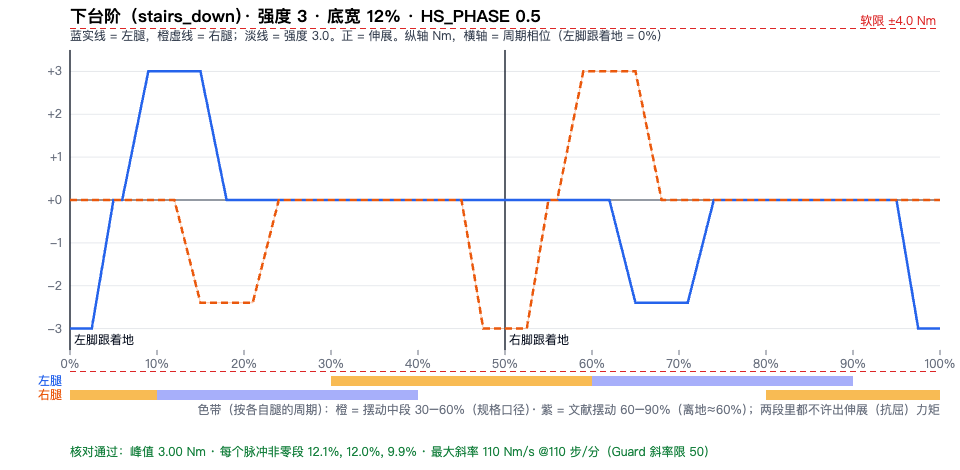
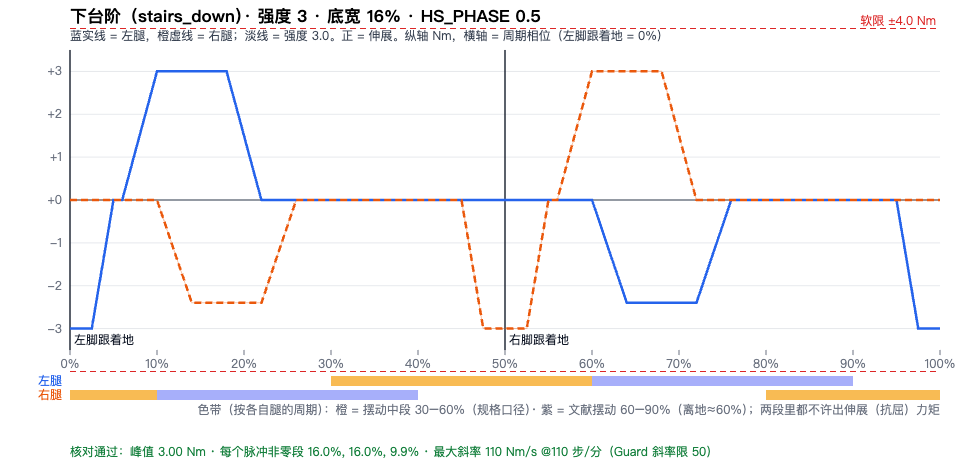
S 线第 7 轮：启动参数口径、底宽 16%、经验卡显示模型名、README / 架构 v3 软限与台阶、重拍泰山台阶截图
- 软限 4 / 强度 3.0 / 底宽 16 的出处改成展位启动参数；删掉「换人后调回 3.0」
- 脉冲表底宽改 16%（峰值不变），pulse_plot 按 CAP 4 / 强度 3.0 / 底宽 16 重跑核对并重出两张脉冲图
- 经验卡：显示模型名（现在 MiniMax-M3）/ rule，source 是内部键
- README 安全表与地形脉冲行、架构 v3 软限行与台阶两行（总指挥授权，只动这两项）
- 重拍（--sim 实走泰山、fx=off、npc=0）：ui_play_force.png、游戏-泰山台阶-v2.jpg、游戏-泰山台阶-峰哥v2.jpg；海报主图与项目介绍截图表换新
- 打印复查：海报两版各 1 页、一页纸两版各 2 页

diff --git a/docs/提交/poster.html b/docs/提交/poster.html
@@ -116,17 +116,17 @@ h1.alt{font-size:51mm;letter-spacing:1mm}
   </div>
 
   <div class="hero">
-    <img class="shot fg" src="截图/游戏-东京天桥-峰哥v2.jpg" alt="赛博东京·夜行：天桥上的峰哥化身（正面镜头），身后半透明的是上一位登山者">
-    <img class="shot alt" src="截图/游戏-东京天桥-v2.jpg" alt="赛博东京·夜行：天桥台阶，化身与半透明影子并排">
+    <img class="shot fg" src="截图/游戏-泰山台阶-峰哥v2.jpg" alt="泰山十八盘：上台阶的峰哥化身（正面镜头），身后半透明的是上一位，左下是腿上的力">
+    <img class="shot alt" src="截图/游戏-泰山台阶-v2.jpg" alt="泰山十八盘：上台阶，化身与半透明影子并排，左下是腿上的力">
     <div class="fade"></div>
     <div class="feng fg">
       <div class="head"><img src="截图/fengge_v2_front.png" alt="峰哥化身 v2 头部"></div>
       <div class="bubble"><div class="q">这是个好事儿啊，<br>腿酸说明你真爬了。</div><div class="who">峰哥解说 · 内置语录（口吻模仿）</div></div>
     </div>
-    <div class="pulse"><img src="截图/脉冲-上台阶-阻力.png" alt="上台阶一周期的髋力矩：支撑期阻力，摆动期为 0，梯形"><p>上台阶一步里的髋力矩：踩下去往回拉，抬腿时一点不压（梯形脉冲，强度 3.0 峰值 3.6 Nm，软限 4）</p></div>
+    <div class="pulse"><img src="截图/脉冲-上台阶-阻力.png" alt="上台阶一周期的髋力矩：支撑期阻力，摆动期为 0，梯形"><p>上台阶一步里的髋力矩：踩下去往回拉，抬腿时一点不压（梯形脉冲，强度 3.0 峰值 3.6 Nm，底宽 16%，软限 4）</p></div>
   </div>
-  <div class="cap fg">游戏画面：赛博东京·夜行 · 天桥，正面镜头看峰哥化身（v2 模型），身后半透明的是上一位登山者（模拟外骨骼离线预览，9/23）</div>
-  <div class="cap alt">游戏画面：赛博东京·夜行 · 天桥台阶，半透明的是上一位登山者（模拟外骨骼离线预览，9/23）</div>
+  <div class="cap fg">游戏画面：泰山十八盘 · 上台阶，正面镜头看峰哥化身；左下是此刻发给两条腿的阻力脉冲（模拟外骨骼实走，强度 3.0，9/23）</div>
+  <div class="cap alt">游戏画面：泰山十八盘 · 上台阶，半透明的是上一位；左下是此刻发给两条腿的阻力脉冲（模拟外骨骼实走，强度 3.0，9/23）</div>
 
   <div class="points">
     <div class="pt" style="--c:var(--cyan)"><h3>穿着就能走</h3><p>不靠平台、不靠地板，一台量产髋外骨骼</p></div>

diff --git a/docs/提交/onepager.html b/docs/提交/onepager.html
@@ -230,7 +230,7 @@ tr.real th{color:var(--green)} tr.rep th{color:var(--cyan)} tr.sim th{color:#3d4
     <tr class="rep"><th>回放（真机录制）</th><td>穿戴坐站的假步态周期 13 → 0；走动段步子接住率 0.25 → 0.44（游戏里会一顿一顿）；红灯停步到放行中位 2.2 s；12 段录制全栈回放 0 次断使能</td></tr>
     <tr class="sim"><th>模拟 / 单测</th><td>5 种脉冲形状核对全过、27 组参数边界 0 组不过；11 种故障注入全过；蜂群：安全员裁剪 / 否决 / 急停全否，恶意路线草稿被裁成能走的山，断网兜底全通（不打真 Claude）；游戏 1080p 50–58 fps（开发机）</td></tr>
     <tr class="todo"><th>待 9/24 上午实测</th><td>力矩方向（「正 = 髋伸展」目前是数据推断）；其余手感（上坡、下台阶落阶冲击、跑酷跳 / 滑铲）；脚跟着地在相位的哪里；原地踏步稳不稳；蒙眼二选一（≥9/10 才说「能分辨坡度」）；陌生人穿脱时间；展位 MacBook 帧率；Claude 实连（MiniMax-M3 已测：教练 23/23、造山 p50 7.0 s）</td></tr>
-    <tr><th>哪些是大模型</th><td>教练、地形导演和<span class="fg">峰哥</span><span class="alt">解说员</span>的解说词由大模型写（Claude；没 key 时 MiniMax-M3，现在就是它）；断网时换成规则表、模板、内置语录，界面标 <b>claude / rule / canned</b>。记忆员、安全员是代码</td></tr>
+    <tr><th>哪些是大模型</th><td>教练、地形导演和<span class="fg">峰哥</span><span class="alt">解说员</span>的解说词由大模型写（Claude；没 key 时 MiniMax-M3，现在就是它）；断网时换成规则表、模板、内置语录，经验卡上显示模型名 / <b>rule</b>，解说标 <b>canned</b>。记忆员、安全员是代码</td></tr>
     <tr><th>捷风</th><td>追你的是致敬《无畏契约》的捷风：模型是粉丝手办（Frojj123，Thingiverse，CC BY 4.0），角色 IP 属于 Riot、没有授权，只在比赛展示；声音由配音演员本人同意、现场录制</td></tr>
     <tr class="fg"><th>峰哥素材</th><td>照片（化身贴脸 + 大屏头像）来自 talk-to-fengge-live（MIT），口吻节选自 feng-ge-skill（MIT）；<b>声音</b>是 MiniMax 复刻的音色，参考音频是 talk-to-fengge（Apache-2.0）里约 45 秒的公开直播片段。兜底语录已预生成，断网也有峰哥音色。合成音频只存本机、不公开发布。<b>峰哥本人 9/23 当面同意</b>本次展示使用</td></tr>
   </table>

diff --git a/docs/指挥板.md b/docs/指挥板.md
@@ -13,7 +13,7 @@
 | **H 峰哥化身** | `static/game/fengge.js`、`static/game/fengge_hud.js`（新）、`static/fengge.html`、`static/models/fengge_*`；`engine.js` 只加 import + 调用（第 1 轮 `await dressFengge(av)`、第 2 轮 `initFenggeHud()`，共 4 行） | ① 修 `/fengge` 预览空白 → 脸朝向 / 比例 / 夜景可读性截图验收 → 接进游戏；② 画中画头像 + 解说气泡 | ✅ **第 2 轮 画中画**（`fengge_hud.js`）：左侧世界名面板下方一个圆形峰哥头像（2D 照片），1 s 轮询 `/state.fengge`，出了新的一句弹气泡停 6 s（打开页面前那句不弹，判断方式和 voice.js 一样：`t|event|text` 变了才算），红灯红框、登顶金框，登顶期间（`body.summit`）头像 6→9.5rem；只管画面不碰声音；`?fengge=0` 头像也不出（验过）。气泡宽 ≤ min(20rem, 半屏−16rem)，小窗口也碰不到正中的红灯面板。**真链路联调**（`--sim` 8813 + 内置浏览器实时 /game，驱动 /sim 走东京）：进红灯 → `/state.fengge` 出兜底语录（source=canned，大脑没开）→ 气泡 ≤1 s 弹出、6 s 后收；走完一圈登顶那句同样弹出，东京第 2 圈第 4 步就是红灯，登顶那句很快被红灯那句顶掉。**截图**（离线预览 `&say=…&sayev=…` 摆的状态，1280×720 东京夜景）：`docs/提交/截图/fengge_hud_walk.png`（普通行走，只有头像）、`fengge_hud_red.png`（红灯 + 红框气泡，离红灯面板约 200 px）、`fengge_hud_summit.png`（登顶，头像放大 + 金框气泡，登顶卡在底部不重叠）。**没做到**：hud.js 的影子标签避让列表（`AVOID`）没有 `fg`，影子跑到画面左上时标签可能压到气泡（hud.js 属于 M，要加就在 AVOID 里加 `'fg'`）；接上 Claude 后解说要等大脑返回（最长 15 s 超时），可能登顶卡收了才出来。<br>✅ **第 1 轮 3D 峰哥头** 已接进游戏（`?fengge=0` 关）。**空白原因**：页面本身不报错（内置浏览器正常画），是 `shot.sh` 的 `--virtual-time-budget` 卡在 `loadAvatar()` 的 glb 贴图解码上（加 stage 标记实测停在 loadAvatar；预算加到 30 s 照样空白），与等待时长无关；改用 DevTools 按真实时间等 `<body data-ready>` 再截（预览页加了 `data-ready` + `#errlog`，`scripts/dom.sh` 可直接查）。**顺手修的真问题**：原来按 z>1.30 量头，漏掉下半个头，脸片比原头盔小，被盖住只露出鼻子——改按头骨权重量、原头盔顶点塌掉、脸片按照片比例铺（不拉伸不镜像）。**截图** `docs/提交/截图/fengge_front.png`、`fengge_left30.png`、`fengge_right30.png`、`fengge_walk.png`、`fengge_night_front.png`（东京夜景正面）、`fengge_night_game.png`（东京实际跟拍视角，只见帽子+后脑）；5 个主题预览均无报错。**开销**（东京 pos 18 同视角，1024×768）：+3 次绘制（66→69）、+4.4k 三角形（73.5k→77.8k），同步渲染 60 帧均值 43.9→44.1 ms（在误差内）；绝对值偏高是面板隐藏 + 机器负载 18 下强制 readPixels 同步测的，rAF FPS 没测成。**没做到**：跟拍镜头在身后，游戏里只有登顶环绕才看得到脸而且脸很小；侧面/背面是纯色 |
 | **V 峰哥语音** | `brain/tts.py`（新）、`shellos/agent/voice.py`（新）、`static/voice.js`（新）；`server.py` 只加 `/voice/*` 路由 | 峰哥解说（`App.fengge.last`）→ 语音播放；调研声音克隆方案（参考 YeJe-cpu/talk-to-fengge、w466747380/talk-to-fengge-live 的参考音频与方案），离线兜底 | ✅ **峰哥音色上线了**（总指挥 main 9c94e22）：主工作区 MiniMax 复刻成功，11 句兜底语录全部用 MiniMax 预生成（24 kHz）；`run.sh` 一起起 tts（8791），隧道多转了 8791；`game.html` 已引入 voice.js；端到端验证过（造山 → 兜底解说 → `/voice/last.wav` 回 24 kHz MiniMax 音频）。实时合成一句 4.2 / 7.8 / 10.2 s，MiniMax 超时定为 15 s，ShellOS 等 25 s。MiniMax 失败或断网时：本地缓存 → `say` 女声 → 不出声。**复刻做了两次（V 一次、总指挥一次），约 19.8 元** |
 | **C Claude 实测 + 部署** | `brain/claude_brain.py`、`shellos/agent/brain.py`、`shellos/agent/interpret.py`、`shellos/worlds/gen.py`、`scripts/eval_*.py`（新）、`brain/run.sh`（新） | 拿到 key 后实测：教练 23 句准确率 / 造山 10 句质量 / 延迟；调 prompt；本机大脑 + SSH 反向隧道到 MacBook 一键脚本；deploy 到 MacBook 联调 | **backend=minimax 跑通（commit 见 git log）**：同一个官方 SDK 只换 base_url 到 `api.minimaxi.com/anthropic`（文档写 api.minimax.cn，两个都通；这台机器上 minimaxi.com 建连 0.8–1.2 s，minimax.cn 2–4.8 s）。结构化输出用强制工具调用。凭据顺序：Claude > brain/.env 的 MINIMAX_API_KEY > none，/health 带 `backend`。**教练**（MiniMax-M3，第 3 轮）：23 句参数 23/23、方向 23/23（规则表 23/23）；加试 7 句 7/7（规则表 3/7）；**p50 1.6 s、p95 2.8 s**、>12 s 0 次。M2.7-highspeed 思考关不掉：方向 22/23，p95 12.2 s，所以换成 M3。**造山**（M3，第 2 轮）：10/10 由模型生成，被安全员裁剪的 2/10（泰山 1 条；「500 步 + 5 红灯」那句 7 条，本来就是故意刁难），**p50 7.0 s、max 10.0 s**；截图在 C 线 scratchpad 的 `worlds-minimax.png`。**峰哥解说**（M3）0.9–2.2 s（M2.7-highspeed 要 7.8–11.8 s，ShellOS 的 15 s 超时会碰到）。**费用**：总共约 130 次 live，约 ¥0.6（教练单次约 ¥0.002、造山约 ¥0.009、峰哥约 ¥0.001；第 2/3 轮教练的 token 日志被重启覆盖了，按单次均值推算）。M3 偶尔不理 tool_choice，直接回文字（约 3%），先把文字当 JSON 解析，解析不了再问一次。主工作区 8790 的大脑和隧道我没动，重启交给总指挥。pytest 106 过，1 挂（同前，只在 worktree 里挂）。key 前的结论见下面留言。
-| **S 提交物 / 叙事** | `docs/提交/**`、README 的「项目介绍」段 | 改名峰哥亡命天涯；加蜂群（峰哥当年合伙的公司就叫「蜂群文化」）、一句话造山、峰哥解说；评委题库补：断网怎么办 / 安全员为何不用大模型 / 肖像与素材授权 | ✅ 第 6 轮（已 merge main 8215a79，未 push）：项目介绍 / 60 秒 / 4 分钟 / 题库 / 分镜 / 海报文案，另外 poster、onepager、README 开头段也跟上了。**手感**：上台阶 = 支撑期阻力（摆动期 0）、下台阶 = 落阶冲击 + 助力 + 摆动期帮迈腿，峰值按强度 3.0 / 软限 4 用 `terrain.pulse()` 算的（上坡 +3.0、下坡 −2.4、上台阶 −3.6、下台阶 −3.0 / +3.0 / −2.4、红灯 −1.5、lift −2.4 Nm）；`pulse_plot.py --strength 3.0`（CAP=4）重跑核对全过，新图 `截图/脉冲-上台阶-阻力.png`、`脉冲-下台阶-落阶冲击.png`，海报角图换掉了。**题库**加 D10 上楼为什么是阻力 / D11 落阶冲击会不会伤人 / D12 力波形是真的吗（答：是 Guard 发出的指令 `safety.sent`，不是测出来的力）；D9 改成「是捷风」：粉丝手办 Frojj123 CC BY 4.0、IP 属于 Riot 没授权、声音配音演员本人同意现场录（录音未到）。**4 分钟**主线不加跑酷 / 珠峰（时间不够），加「加演」表：珠峰走到北坳即可；跑酷真机没试通就只放模拟。60 秒正片不动结构，另列 15 s 花絮（珠峰 + 跑酷 + 捷风，角标「模拟」）。**大模型口径**：C 行说现在大脑跑的是 MiniMax-M3（Claude 等 key），材料里「教练 = Claude」都改成「大模型（Claude；没 key 时 MiniMax-M3）」，引 C 行实测（教练 23/23 p50 1.6 s、造山 p50 7.0 s、解说 0.9–2.2 s）。**要总指挥确认 / 处理**：① 软限 4 Nm、强度 3.0 仓库里没有出处（`--cap` 缺省 3、Terrain 缺省 1.5），材料写成「总指挥 9/23 转达」；**换人 / 演示复位会把强度重置回 1.5**（`demo_reset` 里 `Terrain()`），4 分钟脚本开场前清单加了「换完人调回 3.0」，建议改代码缺省或 run-mac.sh；② 经验卡 `source` MiniMax 也写 `claude`，建议改成 `llm` 或带模型名；③ README 正文安全表、架构 v3 还写软限 3 Nm / 旧台阶手感（不归 S）；④ `ui_play_force.png`、`游戏-东京天桥-v2.jpg` 是台阶反过来 / 新 HUD 之前拍的，要重拍。验收：printToPDF 海报两版各 1 页、一页纸两版各 2 页，逐页看过不截断 |
+| **S 提交物 / 叙事** | `docs/提交/**`、README 的「项目介绍」段 | 改名峰哥亡命天涯；加蜂群（峰哥当年合伙的公司就叫「蜂群文化」）、一句话造山、峰哥解说；评委题库补：断网怎么办 / 安全员为何不用大模型 / 肖像与素材授权 | ✅ 第 7 轮（已 merge main 0a20230，未 push）：① 软限 / 强度出处改成启动参数 `./run-mac.sh --ctl terrain --stepping --cap 4 --strength 3.0 --width 16 --http 8765`，4 分钟脚本「换完人调回 3.0」删掉；脉冲表底宽 12% → 16%（峰值不变，`terrain.pulse()` 重算），`pulse_plot`（CAP 4 / 强度 3.0 / 底宽 16）重跑核对全过，两张脉冲图重出。② 经验卡口径改成「显示模型名（现在是 MiniMax-M3）/ rule；source 字段是内部键」。③ 按授权改了 README 安全表 + 地形脉冲一行、架构 v3 §2.2 软限行 + §2.4 台阶两行（只动软限和台阶手感）。④ 重拍：自起 `--sim --cap 4 --strength 3.0 --width 16`（8851），泰山实走、`fx=off&npc=0&voice=0`，GPU 无头 Chrome，走到上台阶中段（pos 18–26）才截：`截图/ui_play_force.png`（覆盖 U 线旧图）、`游戏-泰山台阶-v2.jpg`、`游戏-泰山台阶-峰哥v2.jpg`（正面），波形都是 −3.0～−3.6 Nm 阻力脉冲、强度 3.0；海报主图换成这两张（峰哥版 / 备用版），项目介绍截图表换新。这台机器负载高，模拟设备主循环卡过 1 s 触发看门狗（按设计），截图脚本在后台自动重新上膛，只在模拟上这么做。截图用 npc=0：worktree 里没有捷风 STL（git 忽略），会显示原创造型，和展位不一致，干脆不拍。验收：海报两版各 1 页、一页纸两版各 2 页 |
 | **P 峰哥建模**（分支 claude/vibrant-ritchie-f949b4） | `static/game/fengge.js`、`static/models/fengge_face_hd.jpg`（新）、`docs/提交/素材授权.md`（新，和 J 线那份表头一样，合并时两边的行拼起来）、`docs/提交/截图/fengge_v2_*.png`；**avatar.js / engine.js / fengge.html 都没改** | 峰哥在正面镜头（V / `?cam=front`）近景下好看、一眼认得出：立体头型、针织帽、胡子头发、户外穿搭，外骨骼保留 | ✅ **做完，未 push**。**底模没换**，还是 CesiumMan，骨骼一根没加没改（名字 / 层级 / 绑定姿态原样）：A2 的动作是按 CesiumMan 骨骼名和逐根量过的转轴调的，换 Quaternius 这些都得重量，比赛前不值。把 A2 的 baf464a 临时叠上来跑过 `/game?…&cam=front`、`cam=side`：前倾、转头、围脖都正常（验完还原了，没带进分支）。**头**：放样几何（下巴到头顶 40 层截面 + 鼻梁 / 鼻翼 / 眼窝 / 眉弓 / 颧骨 / 嘴唇 / 下巴起伏），单位是参考照片的像素，照片（原图重新裁的 400×540，比旧的 272×384 清楚）按正前方正投影贴上去，五官自然对上；转开 60° 以上淡出成肤色 / 胡茬（带颗粒），后脑下半是发色。**帽子**：翻边 + 帽身，canvas 画的罗纹 V 字针脚（贴图 + 凹凸），帽檐线按照片（前额压到眉毛上方，两侧压过耳朵）。**头发**：帽子底下两侧 + 后脑两层发片，往下蓬、一绺一绺收尖（照片里就是齐下巴的头发撑在两边）。**围脖**：照片里的黑色抓绒围脖，挂脖子骨，转头不跟着转。**衣服**：包一层化身原来的分区材质：深灰速干衣 + 胸前 / 背后青色竖条纹 V 字拼色（照片里的户外打底衫，**没画任何 logo**）、袖子外侧青线、青色袖口、手套、深色长裤、登山鞋；身材沿法线鼓 0.4–1.2 cm。头放大到 0.25 m（身高的 1/5.8）、下巴压低 4 cm，不然正面镜头 2.4 m 外脸太小、脖子太长。**开销**（`scripts/dom.mjs`，1920×1080）：东京 pos 18 跟拍 73 次绘制 / 83.5k 三角形，`?fengge=0` 71 / 72.9k；泰山 pos 14 正面 49 / 243.9k vs 47 / 233.3k → **+2 次绘制、+10.6k 三角形**（v1 是 +3 / +4.4k），贴图多一张 400×540 + 两张 128² canvas；FPS 没在 M2 上测。**截图**（对比 `fengge_v2_compare.png`，左旧右新）：`fengge_v2_front / left30 / right30 / side / back.png`（`/fengge?zoom=1&walk=0&yaw=…`）、`fengge_v2_walk.png`（全身走路）、`fengge_v2_game_front.png`（`/game?preview=taishan_18pan&pos=14&cam=front`）、`fengge_v2_night_front.png`（东京 pos 18 正面，夜里脸看得清）。截图是无头 Chrome 按真实时间等 `data-ready` 再截的（swiftshader，内置浏览器面板没显示截不了）。**不理想**：照片是强光自拍，预览页里脸偏橙红；侧脸靠几何 + 肤色，耳朵被头发盖住没做；近看帽子针脚是规则的；东京的青色轮廓光把深色衣服整片染青，胸前拼色没白天明显 |
 | **J 疾风 NPC**（追兵，致敬版） | `static/game/npc.js`（新，行为）、`static/game/npc_jifeng.js`（新，造型 / 特效）；`engine.js` 只加 import + 1 行 init；`brain/tts.py` 加 `voice` 参数 + `--npc`；`shellos/agent/voice.py` 加 `NPC_VOICE` / `NPC_LINES`、缓存分目录；`server.py` 加 `/voice/npc.wav`（在 `/voice/*` 里）；`docs/提交/素材授权.md`（新） | 原创风系追兵：跟在玩家身后，步频决定远近，走慢了冲刺逼近（前倾 + 拖尾 + 风刃 + 喊一句），走快了被甩开，红灯她也站定；登顶结局「抓到你了」/「被你甩掉了」；只读 /state，不碰任何控制接口；`?npc=0` 关 | **第 5 轮 · 捷风 STL 雕像接进游戏 ✅**：Sketchfab 要登录，没用。改用 Thingiverse thing:4326703（作者 Frojj123，CC BY 4.0，粉丝原创的 3D 打印手办，不是游戏提取），总指挥放在主工作区的 `models/jett/jett.stl`（已被 git 忽略）。① `vendor/STLLoader.js`：本机只有 three **0.169** 官方包里的 STLLoader（0.160 不在 npm 缓存里；为了一个文件下整个包就没下）。它引用的 BufferAttribute / BufferGeometry / Color / FileLoader / Float32BufferAttribute / Loader / Vector3 / SRGBColorSpace 在 r160 里都有，实测能正常解析。② 加载：先 `mergeVertices`（STL 每个三角形各存 3 个点，不合并的话法线是平的），Z 朝上转成 Y 朝上，缩放到化身身高、脚底落地；这个 STL 本来就面朝 +X，所以 `yaw = 0`（4 个角度截图确认过：站姿、双臂下垂、没有底座），再 `computeVertexNormals` 让表面平滑。③ 按区域烘顶点色：靴 < 8%、腿 < 54%、外套 < 80%，80–93.5% 里朝前的算脸（肤色），其余算头发（白）；36–56% 高度、离中线 > 0.19 的算手套（深色）。材质是 Lambert 加自发光打底 30%、再加菲涅尔轮廓光，东京夜景里看得清。边界都在 `npc_jifeng.js` 的 `STATUE` 表里，对着截图调过。④ 动作「风系飘行」：离地 7 cm 浮着，走的时候上下起伏 ±5 cm，停下来慢慢起伏 ±3 cm，再加一点呼吸（身高缩放 ±1.2%）；前倾 0.03，走的时候 +0.1，冲刺再 +0.32 rad；冲刺时拖尾拉长（历史点间距 5 → 15 cm，最长约 3.6）+ 风刃；追上的那一下绕一个 1 s 的小弧（往前 0.35 步、往玩家那边切 0.3、身体跟着转）再站定；登顶被甩时弯腰。优先级：`scene.gltf` → `jett.stl` → 原创造型，都没有也不会报错。⑤ 性能：+7 次绘制、+4.4 万三角（东京预览 84 次 / 7.7 万 → 91 次 / 12.2 万）。无头 Chrome 走 GPU 的帧率噪声太大（同样没有 NPC，两次分别是 30.1 和 45.6），看不出雕像带来的差别，所以**没抽稀**；展位 M2 上要是掉帧，再加载时抽稀，或者远处换原创造型。⑥ 截图 `docs/提交/截图/npc_jett_stl_*.png`：preview（东京天桥冲刺）、front（正面看配色）、slow_1~6（`--sim` 泰山 80 步/分：gap 2.50「가자」→ 1.45「就这？빨리빨리」→ 0.70 追上、绕弧、「回头看看？我在这儿。」）、fast_1~3（130 步/分：2.76 → 4.69 甩开「哟，跑挺快嘛。」）、summit（登顶抓到「又是我先到，拜。」）。⑦ 素材授权.md：模型那一行改成 Thingiverse / Frojj123 / CC BY 4.0、粉丝原创手办、角色 IP 属于 Riot、不进 git；Sketchfab 那一行写「未采用（要登录）」。<br>**第 4 轮 · 方案 A：改名「捷风」+ Sketchfab 模型（没用上，要登录）**：球球知情后决定推翻「原创致敬版」（总指挥转达）。① `角色名` 缺省改成「捷风」，代码注释里的疾风也都改了；文件名、变量名没动。② `.gitignore` 加了 `shellos/ui/static/models/jett/`（用占位文件验过会被忽略）。deploy.sh 的 rsync 没有读 .gitignore，只排除了 .git / .venv / recordings 这些，所以模型会同步到展位机。③ `npc_jifeng.js` 用 GLTFLoader 读 `/models/jett/scene.gltf`：缩放到化身身高、脚底落地、正面转到 +X，贴图顺便当自发光打底，夜景里不会黑成一团。骨骼按名字匹配（thigh / upleg / leg、calf / knee、upperarm / arm、spine、head），左右按绑定姿态的位置分，摆动轴换算到每根骨骼自己的局部坐标，不依赖骨架的命名和轴向；T 字姿势的上臂自动放下 70°。自带的格斗站姿在「追上后站定」和「登顶抓到」时播放。模型 404、坏文件或者找不到腿骨，都**静默退回原创造型**，页面不报错（验过：没有模型时是原创造型，errlog 空）。**用 CesiumMan 冒充外部模型（`?npcmodel=/models/CesiumMan.glb`）把通用骨骼匹配走了一遍**：侧面看跑步姿势方向正确，前倾、大腿前摆、小腿后折、手臂反向摆。调试参数：`?npcmodel=` 换模型、`?npcmodel=0` 强制原创、`?npcyaw=` 修正朝向。⚠ 服务器 `_static` 给 .gltf / .png / .bin 回的是 application/octet-stream，按理不影响 GLTFLoader 解码，模型到了再实测。④ 素材授权.md 照实改了：模型来自 BojanV06（标 CC-BY，原始 IP 属于 Riot，很可能是游戏提取），球球知情后用于非商业黑客松展示，不进 git、不公开分发；角色名「捷风」属于 Riot 的 IP；原创造型只做退路。语音那一行来源不变，只把「外形和名字仍然原创」这句过期的说法改掉了。录音台词单里的同意示范句也改成了「角色『捷风』」。⑤ 「名字写错了」：等总指挥问清楚是角色名还是配音演员名（J 线的文件里没写配音演员的名字）。<br>**第 3 轮 · 配音演员本人现场录（等录音）**：本人当面同意（总指挥转达，记在留言里）。界限：只用本人**现场新录**的声音，不用游戏音频，不念游戏原台词；外形和名字仍然原创。① 录音台词单 `docs/提交/疾风录音台词单.md`（已发总指挥转球球）：原来的 6 句 + 新写的 5 句（被甩开 2「喂！我还没热身呢。」、追上 2「回头看看？我在这儿。」、红灯一起停「红灯。站好，我也不动。」、绿灯「绿灯了，가자！」、登顶嘲讽「山顶风大，站稳了。」），每句标了情绪，再加 30–60 s 自由说话；录音要求和同意视频的提醒都写在里面。② 接收：`brain/npc_intake.py` 读主工作区 `data/voice/npc_raw/`（`01~11.*` 一句一个文件，或者整段录、按 ≥0.9 s 的停顿切；`free.*` 是参考音频），用 ffmpeg 解码，按停顿切句、取最后一遍、去掉首尾静音，响度归一到 RMS −18 dBFS、峰值 ≤ −1 dBFS，输出 24 kHz 单声道 16 bit，放进 `data/voice/npc/real/`；每一段另存到 `npc_takes/`，自动挑的不满意可以用 `--use 09 <文件>` 换。`free.*` 转成 `data/voice/ref/jifeng_ref.m4a`。`/voice/npc.wav` **真人录音优先**，没有的再合成。已经有复刻 ID（`data/voice/npc_voice_id`）就用复刻音色，没有才用预设候选。③ 复刻：`tts.py --clone-npc`（9.9 元，**问过球球、确认后才跑**；`clone()` 改成可以传参考音频 / ID 文件 / 前缀，峰哥的行为不变）。游戏里 LINES 改成一个事件可以有好几句、随机挑一句，新增红灯 / 绿灯事件。用 `say` 生成的假录音走通了一遍：整段两遍切成 2 段、用最后一遍，输出 24 kHz / 1 ch / Int16，参考音频 16 s → m4a。test_voice 14 过（新增：真人优先不再合成；切句 + 归一化 + 输出格式）。素材授权.md 已写明「本人当面同意、现场新录、不是游戏素材」。<br>**第 2 轮 · 音色候选（等球球挑）**：第一版「清脆少女」球球说一点都不像。界限没变：不复刻捷风中文配音（真人）、不用游戏音频。从官方系统音色（国内站 get_voice 拉的 303 个）里挑了 4 个，都调了语速 / 音高 / 情绪：**A 嚣张小姐** `Arrogant_Miss`（1.2 / +1 / happy）、**B 韩语冷漠女孩** `Korean_ColdGirl`（1.25 / +1 / disgusted）、**C 韩语女冒险家** `Korean_BraveAdventurer`（1.25 / +2 / angry）、**D 俏皮萌妹** `qiaopi_mengmei`（1.3 / −1 / surprised）。台词重写成嘴欠刺客味，原创，夹通用韩语感叹词：가자！你先跑三秒。/ 就这？빨리빨리！/ 逮到了，慢死了。/ 哟，跑挺快嘛。/ 又是我先到，拜。/ 啧，算你走运。试听用其中 4 句，每个候选同样 4 句，一共 16 条全部成功，200 计费字符（约 $0.02）。文件在主工作区 `data/voice/npc_candidates/<候选名>/1~4.wav`（不进 git）。试听：`cd data/voice/npc_candidates && for d in */; do echo "== $d"; for f in "$d"*.wav; do afplay "$f"; done; sleep 1; done`。**选定后**：`voice.py` 里 `NPC_VOICE` 的缺省改成那个候选名，再跑 `brain/tts.py --npc`，只有 2 句要新合成，另外 4 句试听时已经进了缓存。在那之前，缺省还是清脆少女，新台词会现场合成。代码改动：`voice` 参数可以传完整的 voice_setting 字典（tts.py 只收 voice_id / speed / pitch / vol / emotion 这几个字段），带 NPC 音色时 `language_boost=auto`；`tts.py --npc-candidates`；新增测试 1 条（字段透传、auto、参数不同缓存分开），test_voice 13 过。<br>✅ 第 1 轮：分支 `claude/recursing-gould-f7e62a`（未 push、未合 main）。**造型**：复用 CesiumMan 换装（深蓝腿、蓝外套、白头）+ 往后吹的白发（6 个锥，合成一个网格）+ 白色高领，冲刺时 3 条加色拖尾 + 两道绕腰的月牙风刃，「抓到」时脚下一圈风环。没用 Quaternius：多一个 glb，骨骼名不一样，pose 接不上。角色名是 `npc_jifeng.js` 顶上的 `角色名` 常量（缺省「疾风」，也可以临时 `?npcname=`）。**行为**（`npc.js` 顶上的 `NPC` 表）：落后 gap 步，起始 2.5；走的时候 gap 每秒变化（步频 − 100）/ 40 步；站着不走（不是红灯）每秒贴近 0.4 步；**红灯 gap 冻住**、不冲刺、不喊；gap ≤ 0.7 算追上，≥ 4.5 算甩开（她藏到镜头后，左下角留「疾风 ↓ 落后 N 步」）；登顶时 gap < 3 →「抓到你了」，她冲到玩家左后侧 + 风环，否则「被你甩掉了」，停在原地弯腰喘气；登顶卡收起后 gap 回到 2.5。她走左侧路沿（横向 +0.85），不和右边的影子叠在一起。距离按真实时间积分，掉帧也不会追得慢。**声音**：MiniMax 系统预设音色 `Chinese (Mandarin)_Crisp_Girl`（官方系统音色列表里的，不是复刻，不花 9.9），台词原创 6 句：风起了 / 别停 / 追上你了 / 等等我 / 抓到你了 / 被你甩掉了；`/voice/npc.wav?t=` 只念这 6 句白名单，别的回 204；缓存 `data/voice/npc/`，和峰哥的分开。在主工作区 brain 目录用 `brain/.env` 的 key 真跑了一次 `tts.py --npc`：6 句全部成功，42 个计费字符，每句 1.0–1.3 s，wav 已经放进主工作区 `data/voice/npc/`（deploy 时跟着 data/voice 一起同步）。?voice=0 静音，预览不出声。**验收**：`pytest` 108 过 1 挂（worktree 里没有录制文件的那条 stress，和以前一样；新增 2 条：白名单 + 分目录缓存、预设音色不需要复刻）。截图（1080p，无头 Chrome 走 Metal GPU，swiftshader 一帧要 40–90 s，没法连拍）在 `docs/提交/截图/`：`npc_preview.png`（东京天桥、冲刺、「别停」）；`--sim` 泰山 80 步/分 `npc_sim_slow_1~3`（gap 2.50「风起了」→ 1.67「别停」→ 0.70「追上你了」，从起步到追上 5.8 s）；130 步/分 `npc_sim_fast_1~3`（3.37 → 4.80「等等我」→ 5.50 甩开，3.7 s 甩开）；东京红灯 80 步/分 `npc_sim_red_1~2`（第 4 步红灯站住，gap 1.39 连续 7 s 不变）；`npc_summit_caught.png` / `npc_summit_shaken.png`（登顶两种结局）。**性能**：东京预览加 NPC 前后是 84 → 93 次绘制，77.3k → 82.5k 三角形（+9 次、+5.2k）。`?npc=0` 时没有 NPC 也没有标签（验过）。**没做到**：A2 的动画没接（接口写在下面的留言里）；红灯时她停在路左侧，镜头在左后方，偶尔会挡住化身的一部分；登顶环绕镜头下她的名字牌位置是按头顶投影算的，离得近时会偏高 |
 | **R 跑酷**（球球的屋顶跑酷，分支 claude/distracted-darwin-3d3c88） | `static/parkour.html`、`static/parkour/**`（`logic.js` 纯逻辑 / `city.js` 场景 / `main.js`）、`tests/test_parkour.py`（新）；`server.py` 只加 `/parkour` 路由 + `/parkour/` 静态前缀（3 行） | 独立新页 `/parkour`：第三人称跟跑 · 夜里城市屋顶 · 峰哥 · 无尽模式撞 3 次结束（球球 9/23 选的都是推荐项）。步频 = 跑速，高抬腿 = 跳，双腿下蹲 = 滑铲，键盘 ←→ 换道；疾风在后面追 | **v1 能玩，未 push**。**玩法**：3 条道，楼缝 / 空调外机（跳）、晾衣杆（蹲）、水箱（换道）、斜板上更高的楼；步频 → 速度 0.075 m/s 每步/分（100 → 27 km/h，200 封顶 54 km/h）；疾风开局站你身边喊「가자！你先跑三秒。」，3 s 后开追，速度随距离涨（1000 m 时 ≈ 步频 137），追上算撞一次；高抬腿或回车再来一局，最好成绩存 localStorage。**腿**：屈髋减 A2 学出的零点（`av.body.off`），一条腿 > 45° 且还在抬、另一条 < 30° = 跳；两条都 > 35° = 滑铲；走满 5 s 才开（零点没学出来前穿戴偏屈 15–20°，会误触发）。阈值在 `logic.js` 的 `TUNE`，现场可以用 `?jump=&slide=&vjump=` 调。node 测试：正常走路 20 s 0 次误触发。**腿上的力**：只调 `POST /terrain/force`：斜板 = `up`，落地 0.5 s = `down`，前方 0.9 s 内要跳 = `lift`（只在摆动期帮抬腿；9/23 台阶力反过来后从 `stairs_up` 换过来），其余 null；非 null 带 ttl 1 s、每 300 ms 续；大小仍归 Guard + R2。页面失焦 / 隐藏 / 关掉 / 一局结束 / 没开跑都回 null（实测失焦 2 ms、切走 39 ms 服务端就是 null）。**没兜住**：浏览器崩了（SIGKILL，pagehide 不触发）force 会留在最后那个值，见留言。**验收**：`--sim` 自动驾驶（`?auto=0.95`，每个障碍 95% 躲）完整一局 126 s / 1203 m，连拍 9 张 `docs/提交/截图/parkour_01_title` … `parkour_09_over.png`（开场 → 跳 → 换道 → 滑铲 → 跑 → 疾风逼近 → 撞 1 / 撞 2 → 被疾风抓住），这局 force 出现过 null / up / stairs_up / down（当时起跳前用的还是 stairs_up，现在换成 lift）。**性能**：这台开发机是 2017 款 AMD Radeon Pro 555（没有 M2 可测），无头 Chrome 走 Metal、1920×1080：**60 fps（到顶）**，`?fx=low` 也是 60；绘制 ≤ 102 次、≤ 3 万三角。最大的坑是 HUD 面板的 `backdrop-filter: blur`（34 → 60 fps 就差它），已去掉；fx=low 降分辨率到 0.75 反而更慢，改成只关抗锯齿 + 远景楼减半。pytest 114 过（worktree 缺 `data/recordings/synthetic-walk.csv`，那条 stress 借主工作区的文件软链后才过，和以前一样）。**没做**：真机没穿过，高抬腿 / 下蹲阈值只按 A2 录制的量级估的；没有峰哥解说 / 金币 / 排行榜 |

diff --git a/docs/提交/video_storyboard.md b/docs/提交/video_storyboard.md
@@ -9,8 +9,8 @@
 
 ```bash
 # 录屏机上（不要在展位机、有人穿着的时候录）
-SDL_VIDEODRIVER=dummy .venv/bin/python -m shellos.main --sim --ctl terrain --no-record --force-deadman --http 8765 --cap 4
-curl -X POST localhost:8765/set -d '{"name":"strength","value":3}'   # 展位强度 3.0；换人 / 复位后会回 1.5，要再设一次
+SDL_VIDEODRIVER=dummy .venv/bin/python -m shellos.main --sim --ctl terrain --no-record --force-deadman --http 8765 --cap 4 --strength 3.0 --width 16
+# 游戏页地址都加 &fx=off：lighting.js 的后期管线在 Apple GPU 上会黑屏闪烁（L 线在修），和展位保持一致
 # 要大模型的镜头：另开终端起大脑（见架构 v3 末节；Claude 或 MiniMax，看 /health 的 backend）；仪表盘顶栏大脑灯亮才算
 ```
 
@@ -37,7 +37,7 @@ curl -X POST localhost:8765/wearer -d '{"name":"评委-01"}'
 | 1 | 0:00–0:03 | 3 s | 黑底片头：游戏名 + 一台外骨骼剪影 | 这是一台消费级髋关节外骨骼。 | **峰哥亡命天涯**（备用版换成「原地迈步，腿上爬山」） | 剪辑软件做；也可以录 `docs/提交/poster.html` 的标题区（`?fengge=0` = 备用标题） | — |
 | 2 | 0:03–0:06 | 3 s | 共驾：游戏屏顶部横幅「共驾：Ghost 操控 Shell」，左下「腿上的力」波形随摇杆起伏 | 我们先让一个人推着另一个人的腿走。 | 共驾：摇杆 → 队友的腿 · 满杆 2 Nm | A 版：`curl -X POST localhost:8765/ctl -d '{"name":"puppet"}'`，录 `/game`（没接手柄只有横幅，腿不会被推）；录完 `-d '{"name":"terrain"}'` 切回。**B 版**：真人推摇杆、队友穿外骨骼 | ⚠ A 版只有横幅画面；真人镜头 **9/24 上午补拍** |
 | 3 | 0:06–0:11 | 5 s | 赛博东京：化身走到十字路口，红灯停住，倒计时，站稳后放行 | 然后换你来爬。原地迈步，屏幕上的你往前走；红灯腿被轻轻拉住， | 红灯：走着被拉住 · 站定放行 | 实录：`/game`，`/sim walk=true` 走到第 4 步，停 2.5 s。补空镜：`/game?preview=tokyo_night&pos=4&still=0.8`（红灯站定 0.8 s 的画面） | 现成截图没有红灯画面，**9/24 上午或今晚补拍** |
-| 4 | 0:11–0:16 | 5 s | 天桥：上台阶（左下波形出黄色脉冲，**上台阶是阻力**）→ 下台阶（落阶那一下往下一沉），旁边半透明影子；身后捷风追着 | 台阶来了：上台阶腿发沉，下台阶落脚往下一沉。 | 上台阶：支撑期阻力 · 峰值 3.6 Nm（强度 3.0）<br>左下波形 = 实际发给电机的力 | 实录：`/game`，接着走（110 步/分）。空镜：`/game?preview=tokyo_night&pos=11&ghost=13&who=队友&fengge=0` | ⚠ `截图/游戏-东京天桥-v2.jpg` 是新 HUD 之前拍的；`截图/ui_play_force.png`（泰山台阶波形）是台阶手感反过来之前拍的，波形方向是旧的。**新 HUD + 新手感实录今晚 / 9/24 上午补拍** |
+| 4 | 0:11–0:16 | 5 s | 天桥：上台阶（左下波形出黄色脉冲，**上台阶是阻力**）→ 下台阶（落阶那一下往下一沉），旁边半透明影子；身后捷风追着 | 台阶来了：上台阶腿发沉，下台阶落脚往下一沉。 | 上台阶：支撑期阻力 · 峰值 3.6 Nm（强度 3.0）<br>左下波形 = 实际发给电机的力 | 实录：`/game`，接着走（110 步/分）。空镜：`/game?preview=tokyo_night&pos=11&ghost=13&who=队友&fengge=0` | ✅ `截图/ui_play_force.png`、`游戏-泰山台阶-v2.jpg`（9/23 夜重拍：泰山上台阶实走，新 HUD，左右腿 −3.0～−3.6 Nm 阻力脉冲，强度 3.0 / 底宽 16%，`fx=off`）；✅ `游戏-泰山台阶-峰哥v2.jpg`（正面镜头）。东京天桥的新手感实录还没拍，镜头 4 可以直接换成泰山 |
 | 5 | 0:16–0:18 | 2 s | 插一张脉冲图：上台阶一周期的阻力脉冲（摆动期是 0） | 不是振动，是按步态相位打的力矩脉冲。 | （同上） | 插图：`scripts/pulse_plot.py --strength 3.0`（软限设 4 Nm 跑）出的图 | ✅ `截图/脉冲-上台阶-阻力.png`、`截图/脉冲-下台阶-落阶冲击.png`（9/23 下午，强度 3.0 / 软限 4 Nm）。旧的 `脉冲-上台阶.png` 是改之前的手感，**不能再用** |
 | 6 | 0:18–0:30 | 12 s | 仪表盘「评委说」输入「太陡了」→ 大屏右下 AI 决策卡一行一个角色亮出来（教练「强度 −0.5」→ 记忆员 → 安全员放行 → 生效绿字）→ 波形右上强度 3.0 → 2.5、脉冲变矮 → 点「删除」回 3.0 → 点「恢复」 | 太陡了？说一句就行。教练听懂，记忆员查旧经验，安全员把关，马上生效，存成一张卡传给下一个人。删掉它，立刻回到原样——不是写死的剧本。 | 教练 → 记忆员 → 安全员 → 生效 · 「太陡了」→ 强度 3.0 → 2.5 · 删卡 = 回退 | `/` 仪表盘，先 `/sim walk=true` 走约 9 s（没步频不写卡）；在「评委说」框打字点「学」，或 `curl -X POST localhost:8765/feedback -d '{"text":"太陡了"}'`；删除 / 恢复在经验卡上点。想拍「裁剪」橙底：先说两次「没感觉」把强度推到软限 | ✅ `截图/ui_ai_card.png`（AI 决策卡，安全员裁剪橙底）、`截图/仪表盘-蜂群.png`（9/23 模拟，**大脑离线，来源 rule**）。大模型在线版**今晚 / 9/24 上午补拍** |
 | 7 | 0:30–0:44 | 14 s | 选山页输入一句话 → 点「造山」→ 大屏「AI 正在造山…」过场（评委原话 + 已等秒数）→ 新山剖面逐段画出来 + 安全员那几行 → 进新山；插 2 s 仪表盘时间线里安全员「裁剪」那一条 | 再说一句话，现场造一座山。大模型当地形导演出路线，安全员是写死的代码，台阶不许过半、红灯不许超过两个，裁完马上能爬。 | 一句话 → 大模型出路线 → 安全员裁剪 → 马上能爬（离线：模板出路线） | `/worlds` 顶部输入框；或 `curl -X POST localhost:8765/world/generate -d '{"text":"峰哥被追到泰山顶，一路狂奔上十八盘"}'`。想拍到「裁剪」，离线模板用「峰哥亡命天涯，要陡，还要下山」（9/23 实测会把「下山台阶」改成坡）。新山空镜：`/game?preview=gen_<n>&pos=16&fengge=0`（gen 世界只在内存里，要在同一个进程上拍，重启编号从 1 重来） | ✅ `截图/选山-造山.jpg`、`截图/游戏-现场造山.jpg`（都是规则模板造的，9/23）。**大模型造的山今晚 / 9/24 上午补拍**；✅ `截图/ui_forge_wait.png`、`ui_forge_reveal.png`（过场）。造山用时 MiniMax-M3 实测 p50 7.0 s、最长 10.0 s，太长就剪掉等待并加角标「等待已剪」 |
@@ -58,7 +58,7 @@ curl -X POST localhost:8765/wearer -d '{"name":"评委-01"}'
 | 大模型造的山（选山页卡片标「AI 造」，状态行「大模型造好了，安全员审过了」）+ 用时 | 镜头 7 | 同上，`/worlds` 造一座 | 同上 |
 | 峰哥头正面特写（v2 模型） | 镜头 8 | `/game` 真爬时按 V 切正面镜头，或 `/game?preview=<id>&pos=<n>&cam=front`（不加 `fengge=0`） | ✅ 本人已同意 |
 | 带峰哥音色的登顶实录 | 镜头 8 | `/game` 真爬到顶，录屏时录系统声音 | 大脑那台的 `brain/tts.py` 在跑、隧道转了 8791 |
-| 海报主图高清版（≥3840 宽） | `poster.html` | 真 GPU 的 Chrome 打开 `/game?preview=tokyo_night&pos=11&ghost=13&who=队友&fengge=0`，窗口 3840×2160 截图，替换 `截图/游戏-东京天桥-v2.jpg` | 现在这张是 1920×1080，A1 印出来约 80 dpi，2 米外看够用，近看会糊 |
+| 海报主图高清版（≥3840 宽） | `poster.html` | `--sim` 实走泰山，GPU Chrome 3840×2160 打开 `/game?cam=front&npc=0&fx=off&voice=0&ui=play`，走到上台阶中段时截，替换 `截图/游戏-泰山台阶-峰哥v2.jpg`（备用版去掉 `cam=front` 加 `fengge=0`，替换 `游戏-泰山台阶-v2.jpg`） | 现在是 1920×1080，A1 印出来约 80 dpi，2 米外看够用，近看会糊 |
 
 ## 剪完对照
 

diff --git a/docs/提交/项目介绍.md b/docs/提交/项目介绍.md
@@ -3,7 +3,7 @@
 > EvoTavern 进化酒馆黑客松 · 深圳站 · 01 具身与穿戴硬件赛道（SHELL FORGE）
 > 设备：Hypershell X MaxS 髋关节外骨骼（黑客松专用固件 2.9.99.1）
 > 仓库：https://github.com/QiuQiuNB666/aima
-> 口径约定：数字后面标来源——「真机」= 9/22 现场实测，「回放」= 用 9/22 真机录制离线跑，「模拟」= 没有硬件时的模拟外骨骼，「单测」= 仓库里的自动测试，「文献」= 论文，「待 9/24 上午实测回填」= 还没在真机 / 真大模型上验过。**展位参数**：展位配置 `--cap 4`、缺省强度 3.0（总指挥 9/23 转达；代码缺省仍是 `--cap 3` / 强度 1.5），下文力矩数字都按这组算。没标的是设计决定。
+> 口径约定：数字后面标来源——「真机」= 9/22 现场实测，「回放」= 用 9/22 真机录制离线跑，「模拟」= 没有硬件时的模拟外骨骼，「单测」= 仓库里的自动测试，「文献」= 论文，「待 9/24 上午实测回填」= 还没在真机 / 真大模型上验过。**展位参数**：启动参数 `./run-mac.sh --ctl terrain --stepping --cap 4 --strength 3.0 --width 16 --http 8765`（软限 4 Nm、强度 3.0、脉冲底宽 16%，原地踏步模式；换人 / 演示复位回到这组值），下文力矩数字都按这组算。没标的是设计决定。
 > 游戏原名「山的记忆」，9/23 改名「峰哥亡命天涯」；「山的记忆」保留为经验继承那一层的名字。
 
 ---
@@ -55,7 +55,7 @@
 - 造山：10 句 10 句都由模型生成，被安全员裁剪的 2 句（其中一句「500 步 + 5 红灯」是故意刁难）；p50 7.0 s、最长 10.0 s
 - 峰哥解说：0.9–2.2 s
 - Claude 在线时的同样数字：等拿到 key 再测
-经验卡的 `source` 字段只分「大模型 / 规则」：写 `claude` 的卡也可能是 MiniMax 给的，具体模型看蜂群时间线。
+仪表盘经验卡上显示的是大脑当下的模型名（现在是 MiniMax-M3），规则兜底的卡显示 `rule`；数据文件里 `source` 字段的 `claude` 只是内部键。
 
 ## 3. 为什么做
 
@@ -137,17 +137,17 @@
 
 正 = 伸展、负 = 屈曲（仍是 9/22 数据推断）。峰值按展位强度 3.0 算（`terrain.py` 的 MULT / SWING / IMPACT × 强度，代码直接算出来的）：
 
-| 路段 | 手感 | 脉冲 | 峰值（强度 3.0） | 位置 / 底宽 | 依据 |
+| 路段 | 手感 | 脉冲 | 峰值（强度 3.0） | 位置 / 底宽（展位 16%） | 依据 |
 |---|---|---|---|---|---|
-| 上坡 | 有人在后面推 | 早支撑伸展 | +3.0 Nm | 11% / 12% | 文献（Lay 2006；Montgomery 2018） |
-| 下坡 | 腿被拖住 | 早支撑制动 | −2.4 Nm | 10% / 12% | 推断 |
-| 上台阶 | **腿发沉、一级一级费劲蹬**（阻力） | 支撑期往屈曲拉；**摆动期不压腿** | −3.6 Nm | 6% / 12% | **9/23 球球穿真机后的反馈**：上楼要阻力，不是助力 |
-| 下台阶 | 落脚往下一沉，然后被扶着迈下去 | 脚跟着地落阶冲击 + 早支撑伸展助力 + 摆动期帮迈腿 | −3.0 / +3.0 / −2.4 Nm | 0%（底宽 10%）/ ≥12% / 68% | 同上，和上台阶一起反过来 |
-| 红灯 | 走着被轻拉、位置不前进；两腿站稳 1.5 s 放行 | 早支撑制动 | −1.5 Nm | 10% / 12% | 设计 |
-| lift（跑酷起跳） | 帮着抬腿 | 只在摆动期屈曲 | −2.4 Nm | 68% / 12% | 设计 |
+| 上坡 | 有人在后面推 | 早支撑伸展 | +3.0 Nm | 11% / 16% | 文献（Lay 2006；Montgomery 2018） |
+| 下坡 | 腿被拖住 | 早支撑制动 | −2.4 Nm | 10% / 16% | 推断 |
+| 上台阶 | **腿发沉、一级一级费劲蹬**（阻力） | 支撑期往屈曲拉；**摆动期不压腿** | −3.6 Nm | 6% / 16% | **9/23 球球穿真机后的反馈**：上楼要阻力，不是助力 |
+| 下台阶 | 落脚往下一沉，然后被扶着迈下去 | 脚跟着地落阶冲击 + 早支撑伸展助力 + 摆动期帮迈腿 | −3.0 / +3.0 / −2.4 Nm | 0%（底宽 10%）/ 14% / 68%（16%） | 同上，和上台阶一起反过来 |
+| 红灯 | 走着被轻拉、位置不前进；两腿站稳 1.5 s 放行 | 早支撑制动 | −1.5 Nm | 10% / 16% | 设计 |
+| lift（跑酷起跳） | 帮着抬腿 | 只在摆动期屈曲 | −2.4 Nm | 68% / 16% | 设计 |
 
 上台阶以前是「伸展 + 摆动期帮抬腿」（依据是上坡的文献），9/23 球球穿上真机爬了之后反馈「上楼应该是阻力」，改成了现在这样。**摆动期不压腿**是故意的：抬腿时往下压会让脚尖勾到台阶。上坡没改，还是推；要不要也改成阻力，9/24 上午再试。
-五种路段在强度 3.0、软限 4 Nm 下重跑了自动核对（`scripts/pulse_plot.py`）：梯形、底宽 10–20%、30–90% 不出伸展力矩（防绊）、无方向突变、峰值 ≤ 软限；27 组参数边界扫描 0 组不过（模拟，9/23 下午）。控制律自己也把输出裁在软限以内，不全靠 Guard；落阶冲击再经 Guard 的 50 Nm/s 斜率限制，指令最快 60 ms 才能从 0 爬到 3 Nm（代码注释：削成约 60 ms 的顿挫，不是尖刺）。现场造出来的山用的是同一套路段和脉冲，没有新的力矩形状。
+五种路段在强度 3.0、软限 4 Nm、底宽 16% 下重跑了自动核对（`scripts/pulse_plot.py`）：梯形、底宽 10–20%、30–90% 不出伸展力矩（防绊）、无方向突变、峰值 ≤ 软限；27 组参数边界扫描 0 组不过（模拟，9/23 下午）。控制律自己也把输出裁在软限以内，不全靠 Guard；落阶冲击再经 Guard 的 50 Nm/s 斜率限制，指令最快 60 ms 才能从 0 爬到 3 Nm（代码注释：削成约 60 ms 的顿挫，不是尖刺）。现场造出来的山用的是同一套路段和脉冲，没有新的力矩形状。
 
 ### 5.2 步态估计
 
@@ -250,9 +250,9 @@
 
 ## 演示截图
 
-| 登山游戏：赛博东京·天桥台阶，影子领先 2 步 | 登山游戏：泰山十八盘登顶 |
+| 登山游戏：泰山十八盘上台阶，左下「腿上的力」是实际发出的阻力脉冲（模拟实走，强度 3.0） | 登山游戏：泰山十八盘登顶 |
 |---|---|
-| ![](截图/游戏-东京天桥-v2.jpg) | ![](截图/游戏-泰山登顶-v2.jpg) |
+| ![](截图/游戏-泰山台阶-峰哥v2.jpg) | ![](截图/游戏-泰山登顶-v2.jpg) |
 | **仪表盘**：经验卡 #1 + 蜂群时间线（提议 / 同意 / 裁剪 / 生效） | **一句话造的山**：选山页里的「现场造」卡片 |
 | ![](截图/仪表盘-蜂群.png) | ![](截图/选山-造山.jpg) |
 

diff --git a/docs/架构-v3-完整版.md b/docs/架构-v3-完整版.md
@@ -112,7 +112,7 @@ Memory:  换人 → 参数缺省、影子保留 → 走 6 步 → 检索套用
 
 | 规则 | 值 | 来源 |
 |---|---|---|
-| 软限 | 3 Nm（≈0.04 Nm/kg） | 文献扰动实验最低 0.08 Nm/kg 的一半 |
+| 软限 | 展位 4 Nm（启动参数 `--cap 4`，不带参数 3 Nm；≈0.05 Nm/kg） | 低于文献扰动实验最低档 0.08 Nm/kg |
 | 斜率 | 50 Nm/s | 文献 ≤150 Nm/s |
 | 死人开关 | 多来源取最大；按压深度缩放 | |
 | 置信度门控 | conf<0.5 → 0 | |
@@ -141,10 +141,10 @@ Memory:  换人 → 参数缺省、影子保留 → 走 6 步 → 检索套用
 |---|---|---|---|---|---|
 | up | 伸展 | +1.5 | 11% | 12% | 文献（Lay 2006；Montgomery 2018） |
 | down | 制动 | −1.2 | 10% | 12% | 推断 |
-| stairs_up | 伸展 + 摆动屈曲 | +1.8 / −1.2 | 6% / 68% | 12% | 文献 |
-| stairs_down | 制动 | −1.5 | 10% | 12% | 推断 |
+| stairs_up | **阻力**：支撑期往屈曲拉；摆动期不出力（防脚尖勾台阶） | −1.8 | 6% | 12% | 9/23 球球真机反馈（上楼要阻力） |
+| stairs_down | **助力 + 落阶冲击**：脚跟着地屈曲冲击 + 早支撑伸展助力 + 摆动期帮迈腿 | −1.5 / +1.5 / −1.2 | 0% / ≥12% / 68% | 冲击 10%（底宽），其余 12% | 同上 |
 
-梯形；摆动中段不加抗屈；参数范围 `t_push/t_brake/t_step` 0–20、`width` 10–20；输出自裁 ±3 Nm。**模拟**实测峰值（strength 1.5）：stairs_up +1.8、up +1.5、stairs_down −1.5、红灯 −0.75 Nm，和表一致；**手感全部未真机验证**（正力矩 = 伸展仍是数据推断）。
+梯形；摆动中段不加抗屈；参数范围 `t_push/t_brake/t_step` 0–20、`width` 10–20；输出自裁 ±3 Nm。**模拟**实测峰值（strength 1.5）：up +1.5、红灯 −0.75 Nm，和表一致；台阶两行 9/23 按真机反馈反过来后由 `terrain.pulse()` 算（stairs_up −1.8；stairs_down −1.5 / +1.5 / −1.2），落阶冲击经 Guard 斜率限制是约 60 ms 的顿挫。展位启动参数 `--cap 4 --strength 3.0 --width 16`，峰值翻倍（上台阶 −3.6 Nm）；**手感全部未真机验证**（正力矩 = 伸展仍是数据推断）。
 **红灯（wait）**：走着被 −0.75 Nm 轻拉、pos 不前进；放行 = 没有新接受的步 + 两腿角速度 RMS < 20°/s 连续 1.5 s（`wait_need`），距上一步 6 s 无论如何放行。**回放**复算停步→放行中位 2.2 s（1.8–4.7 s）；**模拟** 2.0 s。
 每圈计时，登顶后这一圈成为影子；**每个世界各存各的影子 / 最佳**（`Terrain.memory`，换世界、换人都不丢）；`status()` 给游戏：`preset, world, pos, total, laps, segment, label, next{label,kind,in}, wait_still, wait_need, altitude, force, segments, profile[], elapsed, best, last_lap, ghost_pos, ghost_who`。
 

diff --git a/docs/提交/4分钟展位脚本.md b/docs/提交/4分钟展位脚本.md
@@ -5,7 +5,7 @@
 > 角色：**球球**（讲解 + 操作员，站 MacBook 旁）· **穿戴者**（开场是队友，之后换评委）· 可选第三人管大屏和手柄。
 > 两块屏：**大屏 = 登山游戏 `/game`**（评委看）；**MacBook = 仪表盘 `/`**（操作员看，蜂群时间线在这里）。造山输入框在 `/worlds` 顶部和仪表盘上。
 > 口径：标「待 9/24 上午实测回填」的，上午没验过就**不说**，按括号里的备用说法讲。说到「大模型」时，模型名以仪表盘蜂群时间线为准（截至 9/23 下午没有 Claude key，跑的是 MiniMax-M3），只有写着 Claude 才说 Claude；大脑离线时换成「规则兜底」，并主动说一句「今天现场走的是兜底」。
-> **展位参数**：`./run-mac.sh --ctl terrain --cap 4`，强度 3.0（总指挥 9/23 转达）。⚠ 代码缺省强度仍是 1.5，**每次换人 / 演示复位都会回到 1.5**，要手动调回 3.0（见下面开场前清单）。
+> **展位启动**：`./run-mac.sh --ctl terrain --stepping --cap 4 --strength 3.0 --width 16 --http 8765`（软限 4 Nm、强度 3.0、脉冲底宽 16%、原地踏步模式）。换人 / 演示复位回到这组值，不用手动调。
 
 ---
 
@@ -16,7 +16,7 @@
 | `/worlds` 点「赛博东京·夜行」（上一位评委造的山留在列表里，但每位都从东京开始） | 选山页 | 东京有红灯 + 天桥台阶，开场最好讲 |
 | 仪表盘点「演示态」（= `/demo/reset`：步态重估，经验库和影子保留） | 仪表盘右上 | 每位评委从山脚开始 |
 | 「穿戴者」填 `评委-01`… 点「换人」 | 仪表盘记忆面板 | 影子标签显示上一位的名字；走满 6 步后自动检索经验 |
-| 看顶栏大脑灯：在线（Claude 还是 MiniMax）还是「离线兜底」；**换完人看控制律参数 strength**：代码缺省是 1.5，换人 / 演示复位会回到 1.5，不是 3.0 就在仪表盘调回 3.0（或 `curl -X POST localhost:8765/set -d '{"name":"strength","value":3}'`） | 仪表盘蜂群面板 | 决定今天这一位用哪套说法 |
+| 看顶栏大脑灯：在线（Claude 还是 MiniMax）还是「离线兜底」；控制律参数 strength = 3.0、width = 16（启动参数给的，换人不会变） | 仪表盘蜂群面板 | 决定今天这一位用哪套说法 |
 | 大屏确认：山脚、影子站在旁边、右下「ACTIVE / ARMED」小灯 | 大屏 | 上一位的影子在，继承叙事才成立 |
 | 看状态行 `loop_ms` 不高于平时 +5 ms | 仪表盘顶栏 | 游戏抢 CPU 会触发看门狗 |
 

diff --git a/docs/提交/60秒演示脚本.md b/docs/提交/60秒演示脚本.md
@@ -5,14 +5,13 @@
 > 素材分两版，**画面上必须标清是哪一版**：
 > - **A 版（9/23–9/24 凌晨）**：`--sim` 模拟外骨骼录屏，右下角常驻水印「模拟外骨骼演示」。只有游戏屏 + 仪表盘，没有真人穿戴画面。
 > - **B 版（9/24 上午，能拍就换）**：真机穿戴 + 游戏屏分屏。只在 2AFC 做完之后才加「能分辨」字幕，否则不加。
-> **大模型口径**：旁白一律说「大模型」；录制时蜂群时间线里的模型名写着 Claude 才能说 Claude（截至 9/23 下午没有 Claude key，跑的是 MiniMax-M3）。大脑没连上就用本页每段的「兜底旁白」，字幕里换成「规则兜底」。**录完看一眼卡片来源（`claude` = 大模型 / `rule`）和峰哥那条的来源（`claude` / `canned`），和旁白对不上就重录或换旁白。**
-> **展位参数**：软限 `--cap 4`、缺省强度 3.0（总指挥 9/23 转达），录 A 版也用这组，画面上的力和展位一样。
+> **大模型口径**：旁白一律说「大模型」；录制时蜂群时间线里的模型名写着 Claude 才能说 Claude（截至 9/23 下午没有 Claude key，跑的是 MiniMax-M3）。大脑没连上就用本页每段的「兜底旁白」，字幕里换成「规则兜底」。**录完看一眼卡片上的模型名（现在是 MiniMax-M3）/ `rule`和峰哥那条的来源（`claude` / `canned`），和旁白对不上就重录或换旁白。**
+> **展位参数**：启动参数 `--cap 4 --strength 3.0 --width 16`（软限 4 Nm、强度 3.0、脉冲底宽 16%），录 A 版也用这组，画面上的力和展位一样。
 
 ## 录制准备（A 版）
 
 ```bash
-SDL_VIDEODRIVER=dummy .venv/bin/python -m shellos.main --sim --ctl terrain --no-record --force-deadman --http 8765 --cap 4
-curl -X POST localhost:8765/set -d '{"name":"strength","value":3}'     # 展位强度 3.0（换人后会回代码缺省 1.5，换完人再设一次）
+SDL_VIDEODRIVER=dummy .venv/bin/python -m shellos.main --sim --ctl terrain --no-record --force-deadman --http 8765 --cap 4 --strength 3.0 --width 16
 # 要大模型：另开终端起大脑（ANTHROPIC_API_KEY=Claude，或 brain/.env 写 MINIMAX_API_KEY），展位 MacBook 还要 SSH 隧道，见架构 v3 末节
 # 开两个窗口：http://localhost:8765/game（1920×1080 全屏）与 http://localhost:8765/（仪表盘，蜂群时间线露出来）
 # 先让「上一位」爬完一圈，这样开拍时已经有影子：

diff --git a/docs/提交/海报文案.md b/docs/提交/海报文案.md
@@ -42,7 +42,7 @@ EvoTavern 深圳站 · 具身与穿戴硬件赛道
 
 ### 画面建议
 
-- 主图：游戏截图（泰山十八盘或赛博东京天桥），化身 + 半透明影子并排；9/24 上午地图精加工后重截
+- 主图：泰山十八盘上台阶实走截图（9/23 夜，模拟外骨骼，强度 3.0）：峰哥化身正面 + 半透明影子 + 左下「腿上的力」阻力波形；备用版用背面跟拍、不带峰哥头的那张
 - 角落小图：上台阶一周期的阻力脉冲（`docs/提交/截图/脉冲-上台阶-阻力.png`，强度 3.0 / 软限 4 Nm；旧的 `脉冲-上台阶.png` 是改之前的手感，别用）
 - 峰哥头 + 一句解说气泡（「这是个好事儿啊，腿酸说明你真爬了。」——内置语录原句）：已获本人同意；头像用 v2 模型（`截图/fengge_v2_front.png`），主图用 v2 正面镜头的游戏画面
 - 不放论文列表、不放架构图（架构图在项目介绍里）
